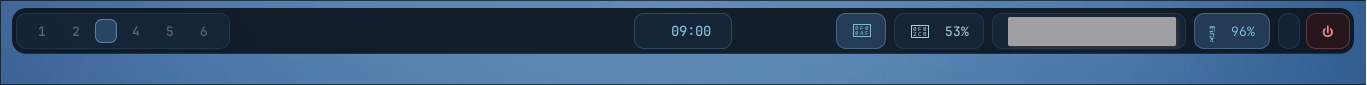
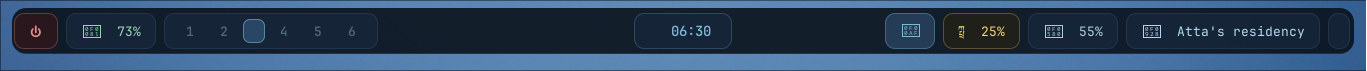
Update dotfiles

diff --git a/waybar/style.css b/waybar/style.css
@@ -223,3 +223,21 @@ background-color: rgba(120, 30, 30, 0.75);
 border-color:     rgba(232, 138, 138, 0.65);
 color:            #ffaaaa;
 }
+
+
+/* ── Brightness ───────────────────────────────── */
+#custom-brightness {
+color:            #f0d080;
+background-color: rgba(40, 35, 10, 0.55);
+border:           1px solid rgba(240, 208, 128, 0.28);
+border-radius:    10px;
+padding:          4px 14px;
+margin:           5px 4px;
+transition:       all 0.2s ease;
+}
+
+#custom-brightness:hover {
+background-color: rgba(80, 65, 10, 0.70);
+border-color:     rgba(240, 208, 128, 0.55);
+color:            #fce8a0;
+}
